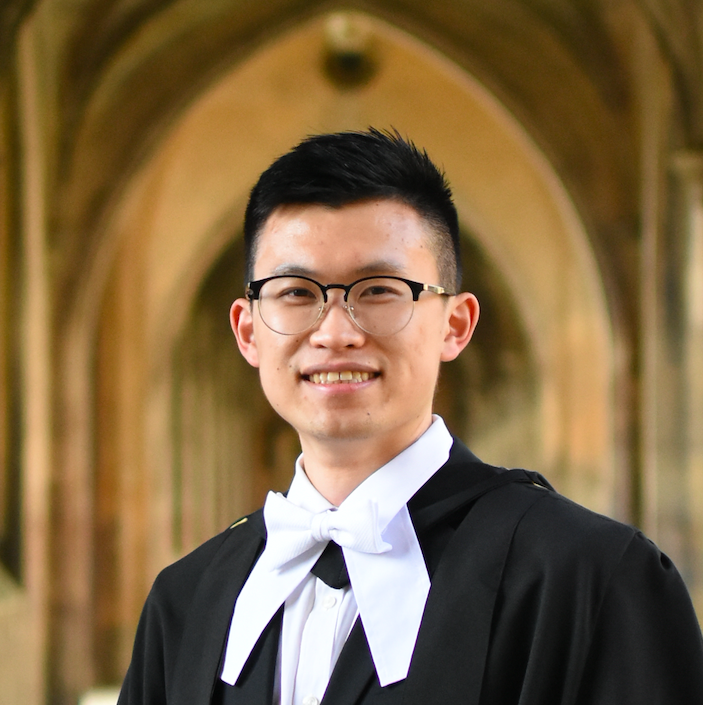
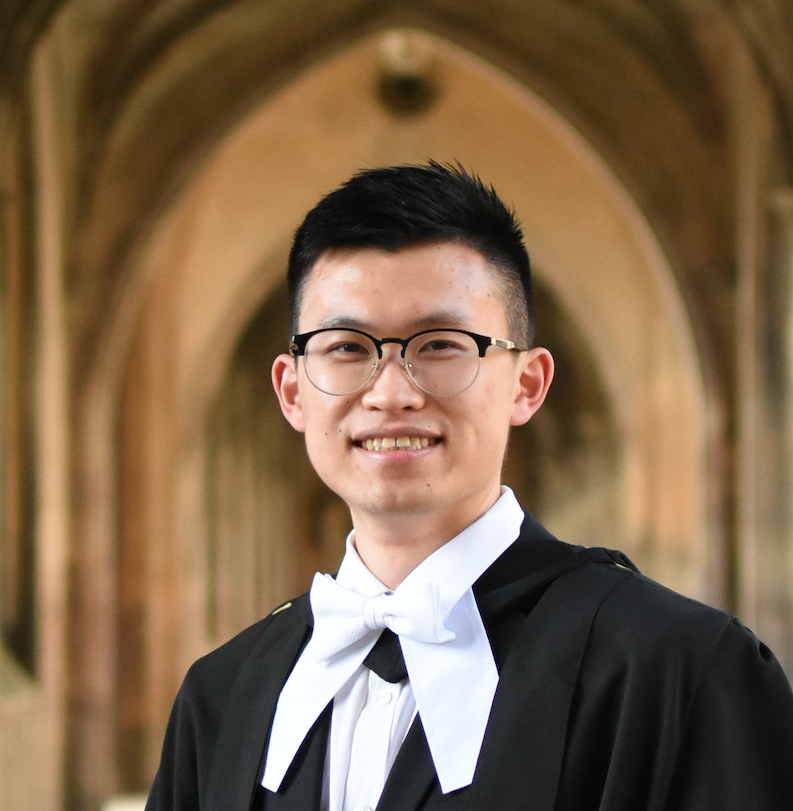
edit about_me; update profile img

diff --git a/_pages/about_me.md b/_pages/about_me.md
@@ -11,7 +11,10 @@ author_profile: true
 
 I am a PhD student at Imperial College London. I am on the [CDT in StatML](https://statml.io/) programme, which is jointly organized by Imperial Collage and University of Oxford.
 
-Before commencing my PhD, I completed [Part III](https://www.maths.cam.ac.uk/postgrad/part-iii/current) in Maths at University of Cambridge, where my focus was on Mathematical Statistics and optimization. Prior to this, I received my Bachelor degree in [Mathematics with Statistcis](https://www.imperial.ac.uk/study/ug/courses/mathematics-department/mathematics-with-statistics-bsc/) at Imperial College London in 2019. 
+Before commencing my PhD, I completed [Part III](https://www.maths.cam.ac.uk/postgrad/part-iii/current) at University of Cambridge, where my focus was on Mathematical Statistics and optimization. Prior to this, I received my Bachelor degree in [Mathematics with Statistcis](https://www.imperial.ac.uk/study/ug/courses/mathematics-department/mathematics-with-statistics-bsc/) at Imperial College London in 2019. 
 
-I spent my summer in 2019 as a research student at the [Goldenberg Lab](http://goldenberglab.ca/) in Toronto, Canada. There, I worked on training NLP models using triage data from the SickKids Hospital to help early-stage diagnosis of Sepsis, thereby allowing prompt treatment. This research was supervised by Dr Anna Goldenberg and Erik Drysdale, and was funded by the [Fields Undergraduate Summer Research Program](http://www.fields.utoronto.ca/activities/19-20/2019-fusrp). A short summary of the project can be found on their website. 
+I spent my summer in 2019 as a research student at the [Goldenberg Lab](http://goldenberglab.ca/) in Toronto, Canada. There, I worked on training NLP models by using triage data from the SickKids Hospital to help the early-stage diagnosis of Sepsis. This project was supervised by Dr Anna Goldenberg and Erik Drysdale, and was funded by the [Fields Undergraduate Summer Research Program](http://www.fields.utoronto.ca/activities/19-20/2019-fusrp). A short summary of the project can be found on their website.
 
+I joined [Bridges for Enterprise](https://www.bridgesforenterprise.com/) (BfE) as a Global Analytics and Algorithm Manager in February 2021. BfE is a global non-profit providing pro-bono advisory services to social enterprise startups in the developing world. My job at BfE is to oversee the Data Analytics and Machine Learning projects in its Tech division. Find out more about what they do and the opportunities the offer on their [website](https://www.bridgesforenterprise.com/).
+
+Besides statistics and voluntary works, I enjoy playing basketball and hiking.

diff --git a/_pages/research.md b/_pages/research.md
@@ -23,16 +23,19 @@ author_profile: true
 # Discussion
 - Zhu, H., **Liu, X**., Caron, A., Manolopoulou, I. Flaxman, S., Briol, F-X. (2020). Contributed Discussion of “Bayesian Regression Tree Models for Causal Inference: Regularization, Confounding, and Heterogeneous Effects”. Bayesian Analysis, 15(3). To appear in [*Journal (pp55-58)*](https://projecteuclid.org/euclid.ba/1580461461#abstract) [*(Preprint)*](https://fxbriol.github.io/pdfs/BART_contributed_discussion.pdf).
 
+# Talk
+
+
 
 # Research Projects
-**Approximate Bayesian Computation with Optimal Transport** \
+### Approximate Bayesian Computation with Optimal Transport
 <span style="color:grey">_Part III Essay;_ [_link_](http://XingLLiu.github.io/files/Part_III_Essay_ABC_with_Optimal_Transport.pdf) </span><br>
 **Xing Liu**; supervised by Dr. Sergio Bacallado <br>
 <span style="color:grey">_Abstract:_</span>
 The complexity of many real-life data generating processes either defies the access to the likelihood function or renders it too expansive to be evaluated. In this case, standard Bayesian inference techniques, such as Markov chain Monte Carlo, can no longer be used. A popular roundabout is Approximate Bayesian Computation (ABC). ABC only assumes one has a generative model from which data can be drawn. It relies on a user-specified discrepancy metric that compares some summaries of the observation and the generated data. However, an improperly selected metric or summary may bias the discrimination between models. Optimal transport (OT) metrics have recently been proposed to remedy this issue. OT metrics are flexible, admit decent convergence properties and are often able to capture all differences between distributions. In this essay, we review and compare two OT metrics and one information-based measure that arose in the ABC literature, namely the Wasserstein distances, the maximum mean discrepancy (MMD) and the Kullback-Leibler (KL) divergence. We summarize the theoretical studies of their posterior concentration in the present literature, and discuss how these metrics can be adapted to large-scale data sets. We also compare these methods through four benchmark experiments, including a real-life study on ecological dynamic systems.
 
 
-**Predicting Sepsis at Triage** \
+### Predicting Sepsis at Triage
 <span style="color:grey">_Fields Undergraduate Summer Research Program_ </span> <br>
 **Xing Liu**; supervised by Dr. Anna Goldenberg and Erik Drysdale <br>
 <span style="color:grey">_Abstract:_</span>
